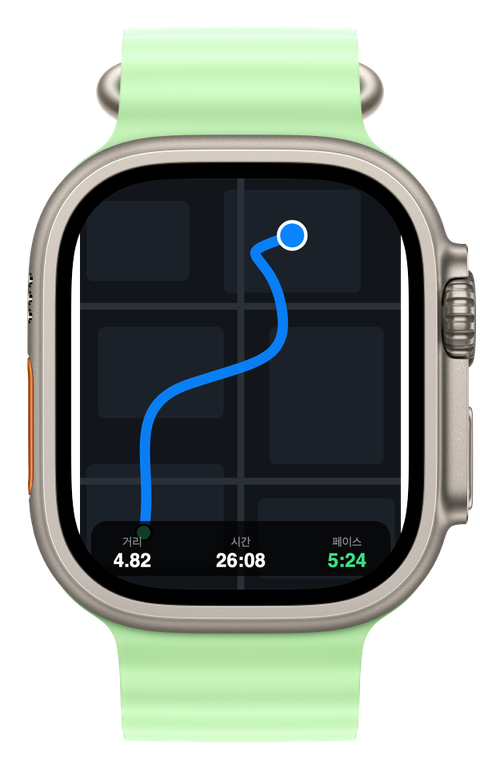
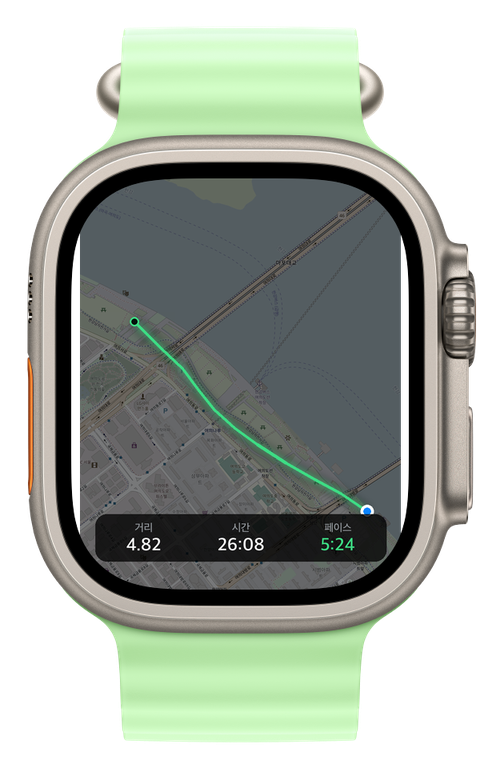
GPS 지도 화면을 실지도(OSM 여의도 한강공원)+경로 오버레이로 교체
추상 블록 SVG 지도가 어색하다는 피드백. OpenStreetMap 타일(zoom16,
여의도 한강공원 — 러닝 성지, 개인 위치와 무관) 25장을 스티치해 다크맵
처리 후, 강변 러닝 경로(글로우+그린 폴리라인)·시작 핀·현재 위치 도트·
거리/시간/페이스 바를 합성. © OpenStreetMap 표기 포함(ODbL 준수).
재생성 스크립트 tools/fetch_map.py·draw_route.py 보존, 절차 문서 갱신.

diff --git a/tools/draw_route.py b/tools/draw_route.py
@@ -1,0 +1,67 @@
+#!/usr/bin/env python3
+"""Draw the running route + HUD onto the darkened Yeouido map → shotMap.png."""
+import pathlib
+from PIL import Image, ImageDraw, ImageFilter, ImageFont
+
+SP = pathlib.Path(__file__).parent
+OUTDIR = pathlib.Path("/Users/curara/Downloads/Runvis_스크린_PNG")
+
+img = Image.open(SP / "map-base.png").convert("RGBA")
+W, H = img.size
+
+# Route: along the Hangang-park riverside trail (visually follows the
+# 한강자전거길 band on this crop), start near 여의서로 park, currently
+# heading toward 원효대교 남단.
+pts = [(150, 355), (215, 420), (268, 470), (305, 520), (345, 570),
+       (395, 615), (450, 655), (520, 700), (590, 740), (655, 775), (718, 818)]
+GREEN = (61, 220, 132, 255)
+
+# glow underlay
+glow = Image.new("RGBA", img.size, (0, 0, 0, 0))
+gd = ImageDraw.Draw(glow)
+gd.line(pts, fill=(61, 220, 132, 160), width=22, joint="curve")
+glow = glow.filter(ImageFilter.GaussianBlur(10))
+img = Image.alpha_composite(img, glow)
+
+d = ImageDraw.Draw(img)
+d.line(pts, fill=GREEN, width=7, joint="curve")
+
+# start pin
+sx, sy = pts[0]
+d.ellipse([sx-11, sy-11, sx+11, sy+11], fill=(4, 18, 12, 255), outline=GREEN, width=4)
+# current position (white ring + blue core, Apple-style)
+cx, cy = pts[-1]
+d.ellipse([cx-16, cy-16, cx+16, cy+16], fill=(255, 255, 255, 60))
+d.ellipse([cx-12, cy-12, cx+12, cy+12], fill=(255, 255, 255, 255))
+d.ellipse([cx-9, cy-9, cx+9, cy+9], fill=(10, 132, 255, 255))
+
+def font(size, bold=False):
+    try:
+        return ImageFont.truetype("/System/Library/Fonts/AppleSDGothicNeo.ttc", size,
+                                  index=5 if bold else 2)
+    except Exception:
+        return ImageFont.load_default()
+
+# bottom metric bar (same values as the rest of the site's live-run snapshot)
+bar = Image.new("RGBA", img.size, (0, 0, 0, 0))
+bd = ImageDraw.Draw(bar)
+bx0, by0, bx1, by1 = 55, H-190, W-55, H-75
+bd.rounded_rectangle([bx0, by0, bx1, by1], radius=28, fill=(0, 0, 0, 195))
+img = Image.alpha_composite(img, bar)
+d = ImageDraw.Draw(img)
+cols = [("거리", "4.82", (255, 255, 255)), ("시간", "26:08", (255, 255, 255)), ("페이스", "5:24", (61, 220, 132))]
+seg = (bx1 - bx0) / 3
+for i, (k, v, c) in enumerate(cols):
+    cxx = bx0 + seg * i + seg / 2
+    kw = d.textlength(k, font=font(26))
+    d.text((cxx - kw/2, by0 + 18), k, font=font(26), fill=(150, 155, 160))
+    vw = d.textlength(v, font=font(44, True))
+    d.text((cxx - vw/2, by0 + 52), v, font=font(44, True), fill=c)
+
+# OSM attribution (required, small)
+at = "© OpenStreetMap"
+aw = d.textlength(at, font=font(20))
+d.text((W - aw - 18, H - 34), at, font=font(20), fill=(140, 145, 150, 220))
+
+img.convert("RGB").save(OUTDIR / "shotMap.png")
+print("shotMap.png written", img.size)

diff --git a/tools/fetch_map.py b/tools/fetch_map.py
@@ -1,0 +1,43 @@
+#!/usr/bin/env python3
+"""Fetch OSM tiles around Yeouido Hangang Park, stitch, darken for the watch map screen."""
+import math, io, time, pathlib, urllib.request
+from PIL import Image, ImageEnhance
+
+SP = pathlib.Path(__file__).parent
+Z = 16
+# Yeouido Hangang Park (running mecca; deliberately NOT the user's neighborhood)
+LAT, LON = 37.5285, 126.9340
+
+def deg2num(lat, lon, z):
+    n = 2 ** z
+    x = (lon + 180) / 360 * n
+    y = (1 - math.log(math.tan(math.radians(lat)) + 1 / math.cos(math.radians(lat))) / math.pi) / 2 * n
+    return x, y
+
+cx, cy = deg2num(LAT, LON, Z)
+x0, y0 = int(cx) - 2, int(cy) - 2   # 5x5 tiles = 1280x1280, crop later
+canvas = Image.new("RGB", (5 * 256, 5 * 256))
+for dx in range(5):
+    for dy in range(5):
+        url = f"https://tile.openstreetmap.org/{Z}/{x0+dx}/{y0+dy}.png"
+        req = urllib.request.Request(url, headers={"User-Agent": "runvis-web-mockup/1.0 (one-time marketing image)"})
+        with urllib.request.urlopen(req, timeout=15) as r:
+            tile = Image.open(io.BytesIO(r.read())).convert("RGB")
+        canvas.paste(tile, (dx * 256, dy * 256))
+        time.sleep(0.15)
+
+# center crop to screen aspect 820x1015
+px = (cx - x0) * 256
+py = (cy - y0) * 256
+W, H = 820, 1015
+left = int(px - W / 2); top = int(py - H / 2)
+crop = canvas.crop((left, top, left + W, top + H))
+
+# dark-map treatment: desaturate + darken + slight cool tint
+crop = ImageEnhance.Color(crop).enhance(0.35)
+crop = ImageEnhance.Brightness(crop).enhance(0.55)
+crop = ImageEnhance.Contrast(crop).enhance(1.12)
+tint = Image.new("RGB", crop.size, (10, 16, 24))
+crop = Image.blend(crop, tint, 0.18)
+crop.save(SP / "map-base.png")
+print("saved map-base.png", crop.size, "center px in crop:", W/2, H/2)

diff --git a/tools/regenerate-screens.md b/tools/regenerate-screens.md
@@ -21,3 +21,9 @@
 
 주의: Apple 베젤은 "무수정 사용" 조건 — 앱 화면을 스크린 영역에 넣는 것은 허용된 용도,
 회전·기울임·색변경 금지. https://developer.apple.com/app-store/marketing/guidelines/
+
+## 지도 화면 (shotMap) 별도 파이프라인
+GPS 지도 화면은 SVG가 아니라 실지도 합성: `tools/fetch_map.py`(OSM 타일 25장
+스티치+다크 처리, 여의도 한강공원 — 개인 위치 아님) → `tools/draw_route.py`
+(강변 경로+시작핀+현위치+메트릭바+© OpenStreetMap 표기) → composite_bezels.py.
+OSM 타일은 ODbL — 저작자 표기 필수(이미지에 포함됨), 대량 다운로드 금지(1회 25장 OK).